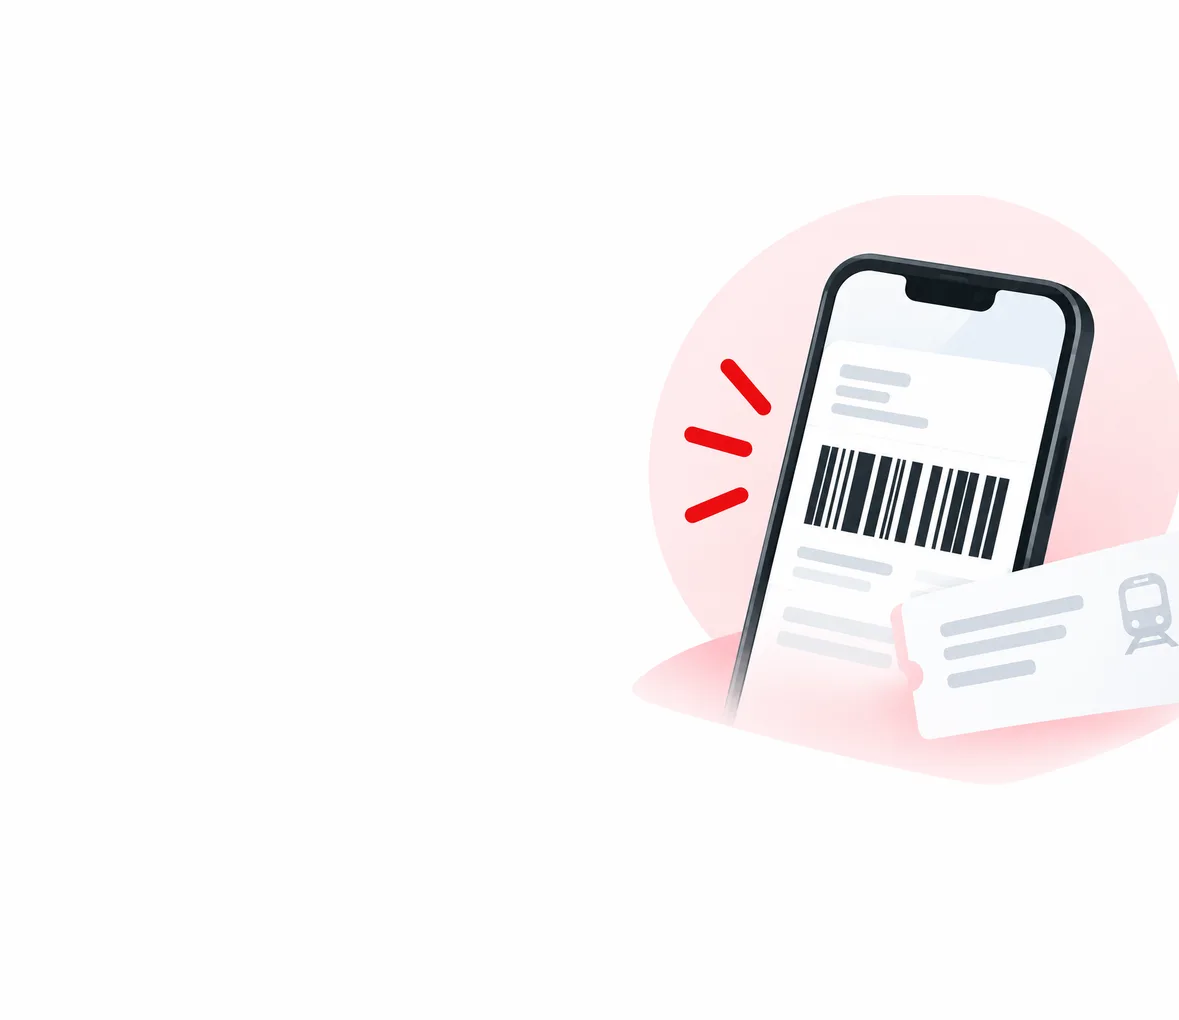
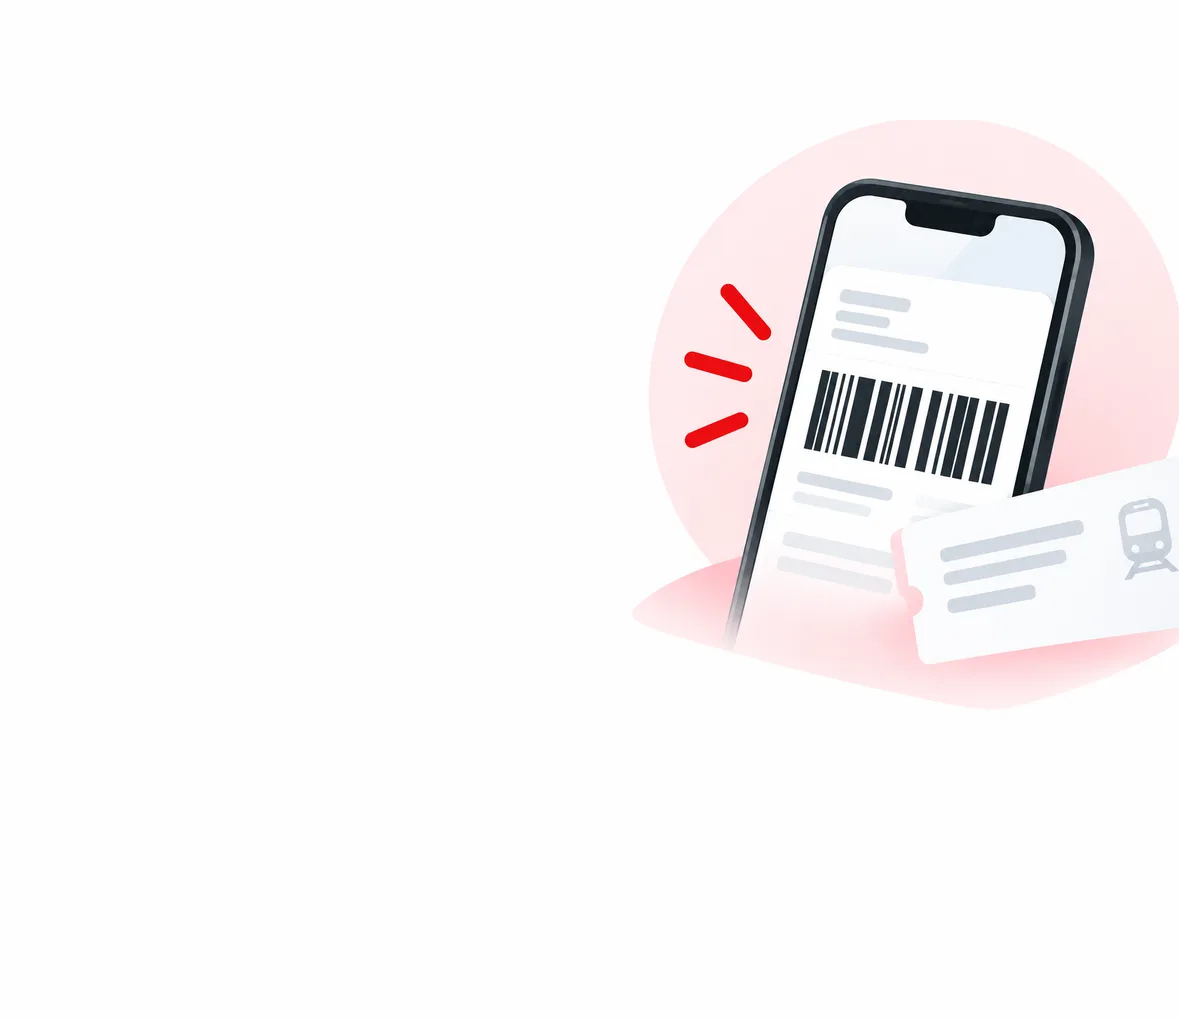
Unterschrift und Senden, und die Zeichnungen rücken hinter die Schrift
Unterschrift: das Formular liegt jetzt in einer Karte, die es benennt — rotes
Blatt, „EU-Antragsformular", „Vollbild" am rechten Rand — und die Seite selbst
sinkt in eine graue Fläche, damit das Papier des Formulars als Papier liest und
nicht als noch eine Karte. Der Unterschriftenkasten hat seinen 1-pt-Rahmen
verloren und ist eine Karte geworden, mit der Grundlinie, auf der man
unterschreibt, und dem Papierkorb oben rechts.

Senden: die Vorschau steht in einer Karte mit Kopf, und darunter liegt jede
Datei einzeln als getönte Karte. Der Entwurf zeigt eine — „EU-Antragsformular
(ausgefüllt) · PDF · 1,2 MB". Es sind in Wahrheit drei oder vier, sie heißen
anders, und die Größe kennt die App nicht. Eine Vorschau, die „So wird deine
E-Mail versendet" darüberschreibt und drei Anhänge verschweigt, ist keine.
MailView bekommt dafür `showAttachments`, sonst stünden sie zweimal da.

Der Seitenzähler bleibt weg, solange es nur eine Seite gibt. Der Entwurf malt
„1 / 4"; backend/src/pdf.rs besteht darauf, dass es eine ist.

Die fünf Zeichnungen sitzen jetzt höher und lösen sich in ihrer unteren Hälfte
auf statt erst am Rand. Die Schrittleiste kreuzt sie, und fünf kleine Wörter
müssen lesbar bleiben, was sie gegen eine volle Uhr nicht waren.

Die Tour geht die Strecke jetzt ganz durch: Angaben, zwei Tickets, die zwölf
Wörter, Zweck auf und zu, unterschreiben, senden. Sieben neue Bilder, und der
Grund dafür steht im vorletzten Commit.
[…]

Changed region(s): [[0.5496, 0.152, 1.0, 0.7598], [0.9771, 0.3343, 1.0, 0.3647]]

diff --git a/app/lib/screens/claims/antrag_screen.dart b/app/lib/screens/claims/antrag_screen.dart
@@ -848,14 +848,31 @@ class _Zweck extends StatelessWidget {
         if (!other)
           // A disclosure, not a button: it opens a list further down this same screen. The
           // mockup draws it as a tinted row with a chevron, which is what VSelectCard is.
-          VSelectCard(
-            leading: const VIconBadge(icon: Icons.swap_horiz, tone: VBadgeTone.neutral, size: VControl.badgeSmall, iconColor: VColors.ink),
-            selected: false,
-            title: 'Anderen Zweck wählen',
-            // No names here: which Vereine exist is managed data (CLAUDE.md), and naming one the
-            // app has no relationship with implies a partnership that does not exist.
-            subtitle: 'Ein anderer gemeinnütziger Verein, nur für diesen Antrag.',
+          VCard(
+            tone: VCardTone.sunken,
+            padding: const EdgeInsets.all(VSpace.cardTight),
             onTap: onOther,
+            child: Row(
+              children: [
+                const VIconBadge(icon: Icons.swap_horiz, tone: VBadgeTone.neutral, size: VControl.badgeSmall, iconColor: VColors.ink),
+                const SizedBox(width: VSpace.md),
+                Expanded(
+                  child: Column(
+                    crossAxisAlignment: CrossAxisAlignment.start,
+                    children: [
+                      Text('Anderen Zweck wählen', style: VText.title),
+                      const SizedBox(height: 2),
+                      // No names here: which Vereine exist is managed data (CLAUDE.md), and
+                      // naming one the app has no relationship with implies a partnership that
+                      // does not exist.
+                      Text('Ein anderer gemeinnütziger Verein, nur für diesen Antrag.', style: VText.bodyS.copyWith(color: VColors.ink2)),
+                    ],
+                  ),
+                ),
+                const SizedBox(width: VSpace.s),
+                const VChevron(),
+              ],
+            ),
           )
         else ...[
           // The disclosure's own header: a label naming the list under it, and a quiet way to
@@ -916,7 +933,9 @@ class _Unterschrift extends StatelessWidget {
         const VGap.m(),
         ClaimPdfPreview(claimId: draft.claim.id, reloadKey: signed),
         const VGap.l(),
-        const VRule.red(),
+        // The mockup closes the document block with the thick red rule the redesign retired
+        // (docs/43 §1). The hairline is the device that replaced it.
+        const VDivider(strong: true),
         const VGap.m(),
         Text('Ich bestätige, dass die Angaben stimmen und ich Inhaber:in des Tickets bin.', style: VText.bodyStrong),
         const VGap.xs(),
@@ -933,16 +952,16 @@ class _Unterschrift extends StatelessWidget {
         ),
         const VGap.s(),
         SignaturePad(controller: controller, onSigned: () {}),
-        const VGap.xs(),
+        const VGap.s(),
         if (!signed)
           VOutlineButton(label: busy ? 'Speichert …' : 'Bestätigen', icon: Icons.check, onTap: busy ? null : onSign)
         else
-          Row(
-            children: [
-              const Icon(Icons.check, size: 16, color: VColors.green),
-              const SizedBox(width: 6),
-              Expanded(child: Text('Bestätigt. Deine Unterschrift bleibt nur in diesem Antrag.', style: VText.caption)),
-            ],
+          // Untinted, so the screen does not end in a coloured block under the signature — but
+          // the tick itself is green, which is the one word this line has to say.
+          const VNoteBanner(
+            tone: VNoteTone.plain,
+            leading: Icon(Icons.check, size: VControl.chevron, color: VColors.green),
+            text: 'Bestätigt. Deine Unterschrift bleibt nur in diesem Antrag.',
           ),
       ],
     );
@@ -996,13 +1015,70 @@ class _Senden extends StatelessWidget {
         if (paperOnly) ...[
           Text(draft.deskAddress ?? 'Adresse siehe Betreiber', style: VText.bodyStrong),
           const VGap.m(),
-        ] else
-          MailView(mail: mail),
-        const VGap.m(),
-        Text('ANHANG', style: VText.eyebrow),
-        const VGap.xs(),
-        ClaimPdfPreview(claimId: draft.claim.id, reloadKey: draft.claim.signedBy, height: 260),
-        const VGap.m(),
+        ] else ...[
+          VCard(
+            child: Column(
+              crossAxisAlignment: CrossAxisAlignment.start,
+              children: [
+                Row(
+                  children: [
+                    const VIconBadge(icon: Icons.mail_outline, size: VControl.badgeSmall),
+                    const SizedBox(width: VSpace.md),
+                    Expanded(
+                      child: Column(
+                        crossAxisAlignment: CrossAxisAlignment.start,
+                        children: [
+                          Text('E-Mail-Vorschau', style: VText.title),
+                          const SizedBox(height: 2),
+                          Text('So wird deine E-Mail versendet.', style: VText.caption),
+                        ],
+                      ),
+                    ),
+                  ],
+                ),
+                const VGap.s(),
+                const VDivider(),
+                const VGap.s(),
+                // No attachment list inside the mail: the rows under this card carry them, one
+                // per file, so what is listed is what actually leaves.
+                MailView(mail: mail, boxed: false, showAttachments: false),
+              ],
+            ),
+          ),
+          const VGap.s(),
+          // Every file that goes with the mail, under the name it will carry. The mockup draws a
+          // single „EU-Antragsformular (ausgefüllt) · PDF · 1,2 MB": one attachment of four, a
+          // name the mail does not use, and a size nothing in the app knows.
+          for (final a in mail.attachments) ...[
+            VCard(
+              tone: VCardTone.tint,
+              padding: const EdgeInsets.all(VSpace.cardTight),
+              onTap: a.endsWith('.pdf') ? () => ClaimPdfPage.open(context, draft.claim.id) : null,
+              child: Row(
+                children: [
+                  VIconBadge(
+                    icon: a.endsWith('.pdf') ? Icons.description_outlined : Icons.image_outlined,
+                    size: VControl.badgeSmall,
+                  ),
+                  const SizedBox(width: VSpace.md),
+                  Expanded(
+                    child: Column(
+                      crossAxisAlignment: CrossAxisAlignment.start,
+                      children: [
+                        Text('Anhang', style: VText.bodyStrong),
+                        const SizedBox(height: 2),
+                        Text(a, style: VText.caption),
+                      ],
+                    ),
+                  ),
+                  if (a.endsWith('.pdf')) const VChevron(),
+                ],
+              ),
+            ),
+            const VGap.xs(),
+          ],
+        ],
+        const VGap.s(),
         VKeyValue('Fälle', '${draft.claim.incidentIds.length}'),
         const VRule(),
         VKeyValue('Anspruch', fmtCents(draft.claim.amountClaimedCents), strong: true),

diff --git a/app/lib/screens/claims/pdf_view.dart b/app/lib/screens/claims/pdf_view.dart
@@ -70,14 +70,54 @@ class _ClaimPdfPreviewState extends State<ClaimPdfPreview> {
 
   @override
   Widget build(BuildContext context) {
-    return Column(
-      crossAxisAlignment: CrossAxisAlignment.start,
-      children: [
-        Container(
-          width: double.infinity,
-          height: widget.height,
-          decoration: BoxDecoration(color: VColors.paperElevated, border: Border.all(color: VColors.rule)),
-          child: _loading
+    return VCard(
+      padding: const EdgeInsets.all(VSpace.cardTight),
+      child: Column(
+        crossAxisAlignment: CrossAxisAlignment.start,
+        children: [
+          // The card's own header names the document and offers the full-screen view, so the
+          // preview underneath is only the page.
+          Row(
+            children: [
+              const VIconBadge(icon: Icons.description_outlined, size: VControl.badgeSmall),
+              const SizedBox(width: VSpace.md),
+              Expanded(
+                child: Column(
+                  crossAxisAlignment: CrossAxisAlignment.start,
+                  children: [
+                    Text('EU-Antragsformular', style: VText.title),
+                    const SizedBox(height: 2),
+                    Text('Ausgefüllt mit deinen Angaben', style: VText.caption),
+                  ],
+                ),
+              ),
+              if (!_loading && _error == null)
+                TextButton(
+                  onPressed: () => _openFull(context),
+                  style: TextButton.styleFrom(padding: const EdgeInsets.symmetric(horizontal: VSpace.s)),
+                  child: Row(
+                    mainAxisSize: MainAxisSize.min,
+                    children: [
+                      Text('Vollbild', style: VText.bodySStrong.copyWith(color: VColors.red)),
+                      const SizedBox(width: 4),
+                      const Icon(Icons.open_in_full, size: VControl.chevronSmall, color: VColors.red),
+                    ],
+                  ),
+                ),
+            ],
+          ),
+          const VGap.s(),
+          // The page itself, sunk into the card so the white paper of the form reads as paper
+          // rather than as more card.
+          Container(
+            width: double.infinity,
+            height: widget.height,
+            clipBehavior: Clip.antiAlias,
+            decoration: BoxDecoration(
+              color: VColors.surfaceMuted,
+              borderRadius: BorderRadius.circular(VRadius.md),
+            ),
+            child: _loading
               ? Center(child: Text('Formular wird erzeugt …', style: VText.caption))
               : _error != null
                   ? Center(
@@ -94,19 +134,19 @@ class _ClaimPdfPreviewState extends State<ClaimPdfPreview> {
                       onTap: () => _openFull(context),
                       child: Image.memory(_firstPage!, fit: BoxFit.contain, alignment: Alignment.topCenter, gaplessPlayback: true),
                     ),
-        ),
-        if (!_loading && _error == null)
-          Row(
-            children: [
-              Expanded(child: Text(_pages > 1 ? 'Seite 1 von $_pages · EU-Antragsformular' : 'EU-Antragsformular', style: VText.caption)),
-              TextButton(
-                onPressed: () => _openFull(context),
-                style: TextButton.styleFrom(padding: const EdgeInsets.symmetric(horizontal: 8)),
-                child: Text('Vollbild', style: VText.bodySStrong.copyWith(color: VColors.red)),
-              ),
-            ],
           ),
-      ],
+          // The page count only when there is one to give. The mockup prints „1 / 4"; the form
+          // this app sends is one page, asserted in backend/src/pdf.rs, so a counter here would
+          // be a claim about a document the passenger is about to certify as true.
+          if (!_loading && _error == null && _pages > 1) ...[
+            const VGap.xs(),
+            Align(
+              alignment: Alignment.centerRight,
+              child: Text('Seite 1 von $_pages', style: VText.caption),
+            ),
+          ],
+        ],
+      ),
     );
   }
 

diff --git a/app/lib/screens/claims/claims_widgets.dart b/app/lib/screens/claims/claims_widgets.dart
@@ -697,28 +697,36 @@ class _SignaturePadState extends State<SignaturePad> {
               width: double.infinity,
               decoration: BoxDecoration(
                 color: VColors.paperElevated,
-                border: Border.all(color: VColors.rule),
-                borderRadius: BorderRadius.circular(4),
+                borderRadius: BorderRadius.circular(VRadius.lg),
+                boxShadow: VShadow.card,
               ),
               child: Stack(
                 children: [
-                  Positioned(left: 14, right: 14, bottom: 30, child: Container(height: 1, color: VColors.rule)),
-                  Positioned(left: 14, bottom: 10, child: Text('Unterschrift', style: VText.caption)),
-                  if (_strokes.isEmpty) Center(child: Text('Hier unterschreiben', style: VText.body.copyWith(color: VColors.ink3))),
+                  // The baseline you sign on, and the invitation under it — the way a form on
+                  // paper is laid out, rather than a caption floating in a box.
+                  Positioned(left: VSpace.m, right: VSpace.m, bottom: 30, child: Container(height: 1, color: VColors.hairlineStrong)),
+                  Positioned(
+                    left: VSpace.m,
+                    right: VSpace.m,
+                    bottom: 8,
+                    child: Center(child: Text('Hier unterschreiben', style: VText.caption)),
+                  ),
                   CustomPaint(size: Size.infinite, painter: _StrokePainter(_strokes)),
+                  if (_strokes.isNotEmpty)
+                    Positioned(
+                      top: 0,
+                      right: 0,
+                      child: VIconButton(
+                        icon: Icons.delete_outline,
+                        color: VColors.ink2,
+                        onTap: () => setState(_strokes.clear),
+                      ),
+                    ),
                 ],
               ),
             ),
           ),
         ),
-        if (_strokes.isNotEmpty)
-          Align(
-            alignment: Alignment.centerRight,
-            child: TextButton(
-              onPressed: () => setState(_strokes.clear),
-              child: Text('Löschen', style: VText.caption),
-            ),
-          ),
       ],
     );
   }
@@ -765,10 +773,14 @@ class _StrokePainter extends CustomPainter {
 /// another surface (app/STYLE.md, docs/33). A box inside a box gave Anträge three different
 /// left edges on one screen.
 class MailView extends StatelessWidget {
-  const MailView({super.key, required this.mail, this.compact = false, this.bcc, this.boxed = true});
+  const MailView({super.key, required this.mail, this.compact = false, this.bcc, this.boxed = true, this.showAttachments = true});
   final ApiMail mail;
   final bool compact;
   final bool boxed;
+
+  /// The paperclip list at the foot of the mail. Off where the screen lists the files itself, so
+  /// the same attachments are not named twice.
+  final bool showAttachments;
 
   /// Overrides the BCC header line (e.g. "… (dein Postfach)").
   final String? bcc;
@@ -797,7 +809,7 @@ class MailView extends StatelessWidget {
           const VRule(),
           const VGap.s(),
           Text(mail.body, style: VText.bodyS, maxLines: compact ? 6 : null, overflow: compact ? TextOverflow.ellipsis : null),
-          if (mail.attachments.isNotEmpty) ...[
+          if (showAttachments && mail.attachments.isNotEmpty) ...[
             const VGap.m(),
             for (final a in mail.attachments)
               Padding(

diff --git a/app/integration_test/screenshot_tour_test.dart b/app/integration_test/screenshot_tour_test.dart
@@ -14,9 +14,9 @@ import 'package:verspaetomat/repo/repo_scope.dart';
 import 'package:verspaetomat/router.dart';
 import 'package:verspaetomat/state/demo_state.dart';
 import 'package:verspaetomat/state/ride_monitor.dart';
-import 'package:verspaetomat/screens/claims/claims_widgets.dart' show IncidentRow;
+import 'package:verspaetomat/screens/claims/claims_widgets.dart' show IncidentRow, SignaturePad;
 import 'package:verspaetomat/screens/community/community_widgets.dart' show BadgeIcon;
-import 'package:verspaetomat/widgets/kit.dart' show VGhostButton, VListRow, VOutlineButton, VPrimaryButton, VSelectCard;
+import 'package:verspaetomat/widgets/kit.dart' show VCard, VDropzone, VGhostButton, VListRow, VOutlineButton, VPrimaryButton, VSelectCard;
 
 // docs/29: there is one check-in and it is the sheets in `checkin_flow.dart`. The screens that
 // used to be listed here — the departures board, "Wo steigst du aus?", the Wohin? and
@@ -134,16 +134,38 @@ void main() {
     await weiter();
     // This claim spans two months, and every month is its own ticket, so the step holds until
     // each one has a picture on it.
-    final anhaengen = find.widgetWithText(VOutlineButton, 'Ticket anhängen');
+    final anhaengen = find.widgetWithText(VDropzone, 'Ticket anhängen');
     while (anhaengen.evaluate().isNotEmpty) {
       await tapIt(anhaengen.first);
       await wait(tester, 2500);
     }
     await weiter();
     await shot('antrag-zweck');
-    await tapIt(find.widgetWithText(VOutlineButton, 'Anderen Zweck wählen').first);
+    await tapIt(find.widgetWithText(VCard, 'Anderen Zweck wählen').first);
     await wait(tester, 900);
     await shot('antrag-zweck-offen');
+
+    // Fold the list away again, then on through the last two steps. Unterschrift will not let go
+    // until the claim is signed, so the tour draws on the pad and confirms.
+    await tapIt(find.byIcon(Icons.close).first);
+    await wait(tester, 700);
+    await weiter();
+    await shot('antrag-unterschrift');
+    final pad = find.byType(SignaturePad);
+    if (pad.evaluate().isNotEmpty) {
+      await tester.ensureVisible(pad);
+      await wait(tester, 400);
+      final c = tester.getCenter(pad);
+      await tester.dragFrom(c - const Offset(60, 10), const Offset(40, 20));
+      await wait(tester, 300);
+      await tester.dragFrom(c + const Offset(0, 10), const Offset(50, -25));
+      await wait(tester, 500);
+      await shot('antrag-unterschrift-gezeichnet');
+      await tapIt(find.widgetWithText(VOutlineButton, 'Bestätigen').first);
+      await wait(tester, 2500);
+    }
+    await weiter();
+    await shot('antrag-senden');
 
     RideMonitor monitor() => RideScope.read(tester.element(find.byType(Scaffold).first))!;
     GoRouter.of(tester.element(find.byType(Scaffold).first)).go(Routes.wir);

diff --git a/app/lib/widgets/header_scene.dart b/app/lib/widgets/header_scene.dart
@@ -67,11 +67,14 @@ class VHeaderScene extends StatelessWidget {
         // drawing is meant to run up behind the status bar and off the screen.
         child: ShaderMask(
           blendMode: BlendMode.dstIn,
-          shaderCallback: (rect) => const LinearGradient(
+          shaderCallback: (rect) => LinearGradient(
             begin: Alignment.topCenter,
             end: Alignment.bottomCenter,
-            colors: [Colors.white, Colors.white, Colors.transparent],
-            stops: [0, 0.88, 1],
+            colors: const [Colors.white, Colors.white, Colors.transparent],
+            // The landscape holds almost to its own edge and only stops short of the first card.
+            // A corner vignette has to give way sooner: the step ribbon crosses its lower half,
+            // and five small words have to stay legible over whatever is behind them.
+            stops: _isAntrag ? const [0, 0.42, 0.78] : const [0, 0.88, 1],
           ).createShader(rect),
           child: ShaderMask(
             blendMode: BlendMode.dstIn,
